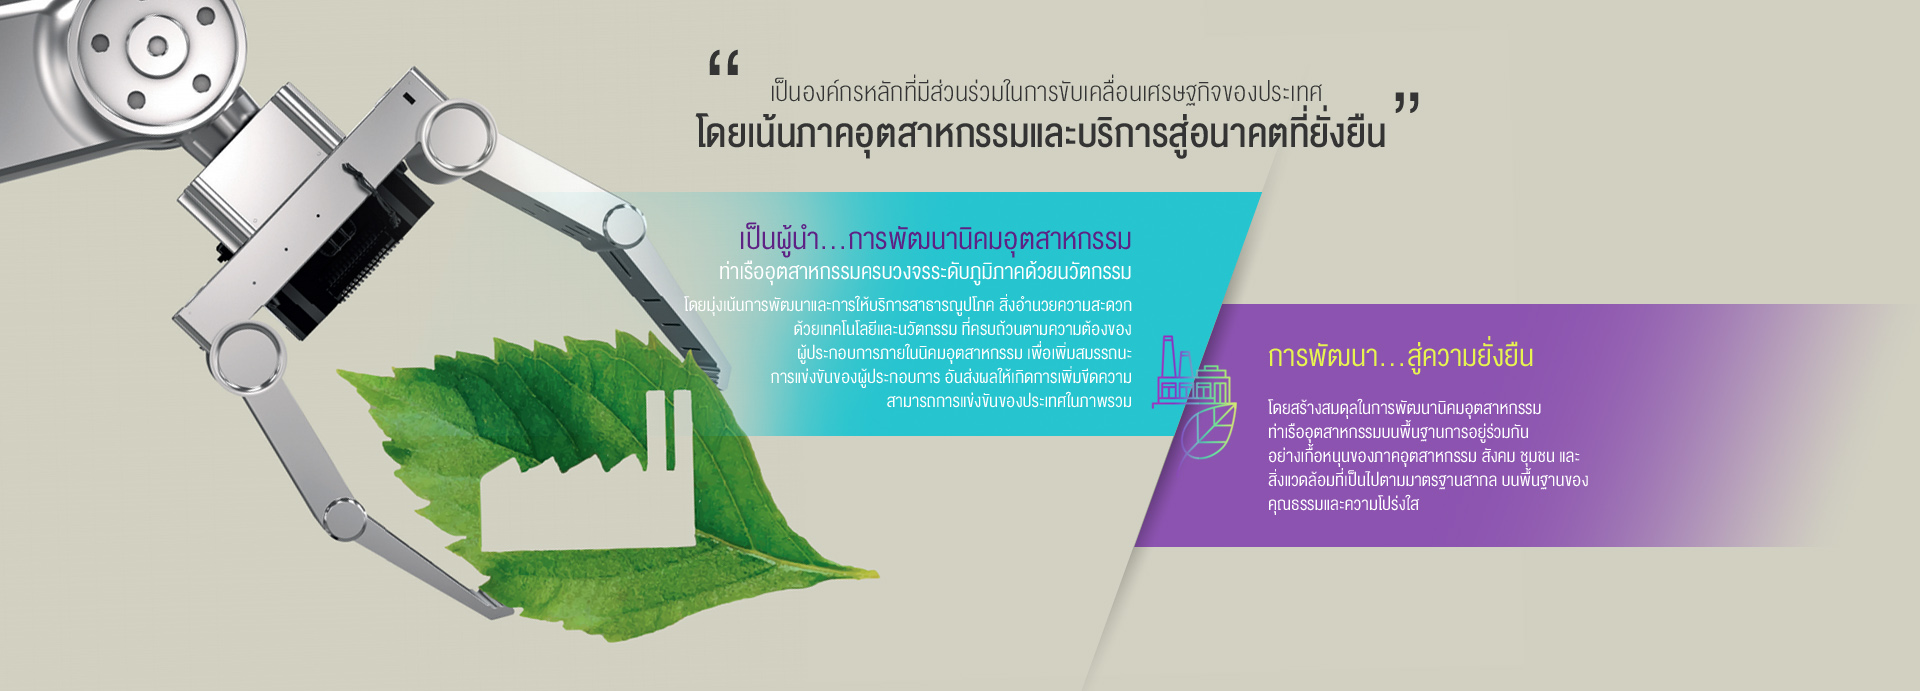
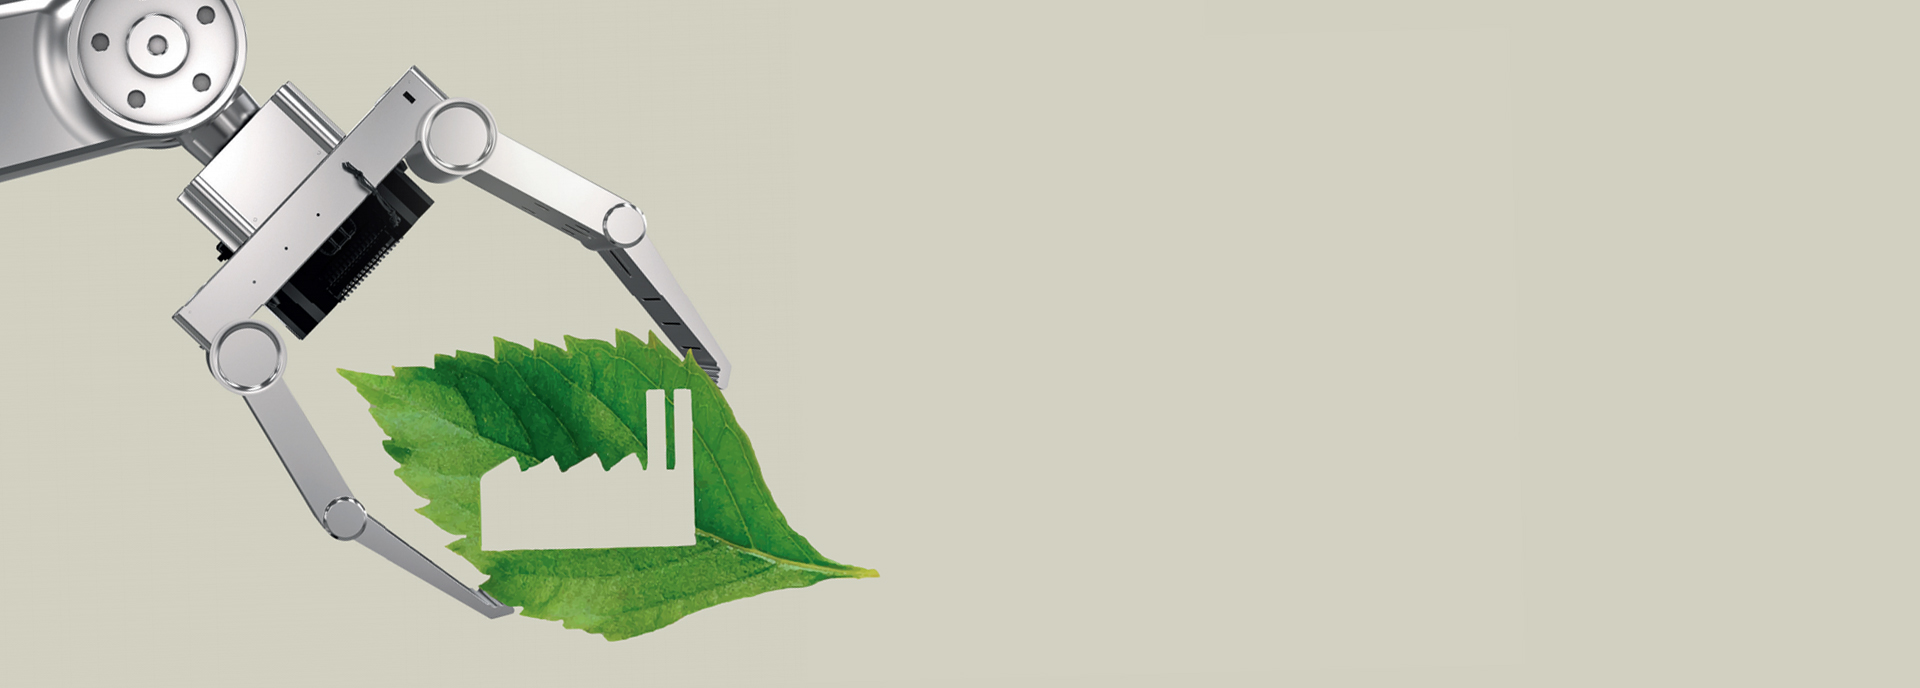
Update pages

diff --git a/public/assets/app/css/blocks.css b/public/assets/app/css/blocks.css
@@ -4,12 +4,12 @@
 .about-01 .slide > img{display:block; width:100%; height:auto;}
 .about-01 .tab-icons{width:100%; display:flex; flex-wrap:wrap;}
 .about-01 .tab-icon{
-    display:block; width:5.5rem; text-align:center; font-size:1.25rem; margin:.5rem 0 0 0;
-    white-space:nowrap;
+    display:block; width:calc(100% / 6); max-width:5rem; text-align:center;
+    font-size:1.25rem; margin:.5rem 0 0 0; line-height:.9;
 }
 .about-01 .tab-icon.active{font-weight:600;}
 .about-01 .tab-icon .icon{
-    position:relative; display:block; width:4.75rem; margin:0 auto .3125rem auto;
+    position:relative; display:block; width:86%; max-width:4.375rem; margin:0 auto .375rem auto;
 }
 .about-01 .tab-icon .icon > img{display:block; width:100%; height:auto;}
 .about-01 .tab-icon .icon > img.icon-active{
@@ -22,6 +22,7 @@
     position:relative; width:100%; height:calc(100vh - 5rem); background-size:cover;
     background-position:center; background-repeat:no-repeat; padding:3rem 1rem;
 }
+
 .about-01 .slide-phil-1 .text-wrapper{
     display:flex; align-items:center; justify-content:space-between;
     width:100%; max-width:48rem; margin:1.75rem auto 0 auto;
@@ -37,6 +38,33 @@
 }
 .about-01 .slide-phil-1 .text-set:nth-child(2) .desc{margin:0 0 0 .75rem;}
 .about-01 .slide-phil-1 .text-set:nth-child(3) .desc{margin:0 0 0 -.75rem;}
+
+.about-01 .slide-phil-2{padding:3.5rem 1rem 1rem 1rem;}
+.about-01 .slide-phil-2 .quote-container{
+    width:100%; margin:0 auto; max-width:50rem; padding:0 0 0 10rem;
+}
+.about-01 .slide-phil-2 .text-container{
+    position:relative; width:100%; max-width:74rem; display:flex; justify-content:center;
+    align-items:flex-start; flex-wrap:wrap; margin:2.25rem 0 0 auto;
+}
+.about-01 .slide-phil-2 .text-wrapper{
+    width:50%; min-height:11.6875rem; background-size:cover; background-position:right center;
+    background-repeat:no-repeat; color:#fff; padding:1rem 6.5rem 1rem 6rem; text-align:right;
+    display:flex; align-items:center; flex-wrap:wrap;
+}
+.about-01 .slide-phil-2 .text-wrapper-left{transform:translateX(6.1875rem);}
+.about-01 .slide-phil-2 .text-wrapper-right{
+    background-position:left center; text-align:left; padding:1rem 12rem 1rem 6.5rem;
+    margin:5.375rem 0 0 0;
+}
+.about-01 .slide-phil-2 .text-wrapper > *{width:100%;}
+.about-01 .slide-phil-2 .title{font-size:1.625rem; font-weight:300; color:#5e2185;}
+.about-01 .slide-phil-2 .text-wrapper p{font-size:1.25rem; font-weight:200; margin:.5rem 0 0 0;}
+.about-01 .slide-phil-2 .text-wrapper-right .title{color:#e7f44f;}
+.about-01 .slide-phil-2 .cut{
+    display:block; width:auto; height:calc(100% + 12rem);
+    position:absolute; top:-3rem; left:calc(50% - 3.25rem);
+}
 
 .about-01 .slide-phil-3 .text-container{
     position:absolute; bottom:0; left:0; right:0; background:rgba(255,255,255,.6); padding:0 1rem;
@@ -100,6 +128,9 @@
     .about-01 .tab-icons{margin:1.75rem 0 0 0;}
     .about-01 .slide-phil{height:calc(100vh - 8rem);}
     
+    .about-01 .slide-phil-2 .text-wrapper{padding:1rem 6.5rem 1rem 3rem;}
+    .about-01 .slide-phil-2 .text-wrapper-right{padding:1rem 3rem 1rem 6.5rem;}
+    
     .about-01 .slide-phil-3 .title{font-size:7.5rem;}
     .about-01 .slide-phil-3 .desc{font-size:1.5rem;}
     
@@ -122,6 +153,15 @@
     .about-01 .slide-phil-1 .title{font-size:11rem;}
     .about-01 .slide-phil-1 .desc{font-size:2.5rem;}
     
+    .about-01 .slide-phil-2{padding:2.5rem 1rem 1rem 1rem;}
+    .about-01 .slide-phil-2 .quote-container{max-width:40rem; padding:0;}
+    .about-01 .slide-phil-2 .text-container{margin:1.75rem auto 0 auto;}
+    .about-01 .slide-phil-2 .text-wrapper{width:100%; padding:1rem 10rem 1rem 14rem;}
+    .about-01 .slide-phil-2 .text-wrapper-left{transform:translateX(0);}
+    .about-01 .slide-phil-2 .text-wrapper-right{padding:1rem 14rem 1rem 10rem; margin:0;}
+    .about-01 .slide-phil-2 .title{font-size:1.5625rem;}
+    .about-01 .slide-phil-2 .cut{display:none;}
+    
     .about-01 .slide-phil-3 .text-set{width:calc((100% - 2rem) / 3);}
     .about-01 .slide-phil-3 .title{font-size:5rem;}
     .about-01 .slide-phil-3 .desc{font-size:1.375rem;}
@@ -143,6 +183,7 @@
     .about-01 .slide-phil-6 .title{font-size:5.5rem;}
 }
 @media screen and (max-width:767.98px){
+    .about-01 .tab-icon{max-width:4.875rem;}
     .about-01 .slide-phil{height:32rem;}
     
     .about-01 .slide-phil-1 .text-wrapper{max-width:30rem;}
@@ -150,6 +191,11 @@
     .about-01 .slide-phil-1 .desc{font-size:2rem;}
     .about-01 .slide-phil-1 .text-set:nth-child(2) .desc{margin:0 0 0 .5rem;}
     .about-01 .slide-phil-1 .text-set:nth-child(3) .desc{margin:0 0 0 -.5rem;}
+    
+    .about-01 .slide-phil-2{padding:2rem 1rem 1rem 1rem;}
+    .about-01 .slide-phil-2 .text-container{margin:1.5rem auto 0 auto;}
+    .about-01 .slide-phil-2 .text-wrapper{padding:1rem 6.75rem 1rem 6rem;}
+    .about-01 .slide-phil-2 .text-wrapper-right{padding:1rem 6rem 1rem 6.75rem;}
     
     .about-01 .slide-phil-4{display:block; height:auto!important; padding:1.5rem 1rem;}
     .about-01 .slide-phil-4 .icon-container{
@@ -172,6 +218,8 @@
     .about-01 .slide-phil-6 br{display:none;}
 }
 @media screen and (max-width:575.98px){
+    .about-01 .tab-icons{justify-content:center;}
+    .about-01 .tab-icon{width:calc(100% / 3);}
     .about-01 .slide-phil{height:28rem;}
     
     .about-01 .slide-phil-1 .text-wrapper{max-width:25rem; margin:1.5rem auto 0 auto;}
@@ -180,6 +228,13 @@
     .about-01 .slide-phil-1 .desc{margin:0;}
     .about-01 .slide-phil-1 .text-set:nth-child(2) .desc{margin:0 0 0 .25rem;}
     .about-01 .slide-phil-1 .text-set:nth-child(3) .desc{margin:0 0 0 -.25rem;}
+    
+    .about-01 .slide-phil-2{height:auto;}
+    .about-01 .slide-phil-2 .text-container{margin:1rem auto 0 auto;}
+    .about-01 .slide-phil-2 .text-wrapper{
+        padding:.75rem 1rem; min-height:0; text-align:left; background:#26c5cf!important;
+    }
+    .about-01 .slide-phil-2 .text-wrapper-right{padding:.75rem 1rem; background:#8c53b0!important;}
     
     .about-01 .slide-phil-3 .title{font-size:4.5rem;}
     .about-01 .slide-phil-3 .desc{font-size:1.25rem;}
@@ -798,16 +853,32 @@
 
 /* Hero Container 01 */
 .hero-container-01{
-    display:block; width:100%; max-width:20rem; margin:0 auto;
-    -webkit-mask-image:linear-gradient(to bottom, #000, #000, #000, #000,
-        #000, #000, #000, #000, #000, rgba(0,0,0,.5), rgba(0,0,0,0));
+    position:relative; display:block; width:100%; padding:3rem 0 0 0; transform:translateY(-2rem);
 }
-.hero-container-01 > .wrapper{position:relative; display:block; width:100%; padding:100% 0 0 0;}
+.hero-container-01 > .pattern{
+    position:absolute; top:0; bottom:4rem; left:calc(50% - 10rem); right:0;
+    width:26.875rem; height:19rem;
+    background-size:cover; background-position:center; background-repeat:no-repeat;
+    clip-path:polygon(100% 0, 100% 52%, 44% 100%, 0 100%, 0 0);
+    -webkit-clip-path:polygon(100% 0, 100% 52%, 44% 100%, 0 100%, 0 0);
+}
+.hero-container-01 > .hero-wrapper{position:relative; width:100%; max-width:20rem; margin:0 auto;}
+.hero-container-01 .cut{
+    position:absolute; bottom:-1rem; left:3.5rem; display:block; width:18rem; height:auto;
+}
+.hero-container-01 .wrapper{
+    position:relative; display:block; width:100%; padding:100% 0 0 0; overflow:hidden;
+    clip-path:polygon(100% 0, 100% 55%, 25% 100%, 0 100%, 0 0);
+    -webkit-clip-path:polygon(100% 0, 100% 55%, 25% 100%, 0 100%, 0 0);
+}
 .hero-container-01 .img-wrapper{
     position:absolute; top:0; bottom:0; left:0; right:0; display:flex; align-items:flex-end;
     justify-content:center;
 }
 .hero-container-01 img.hero{display:block; width:auto; max-width:100%; height:auto; max-height:100%;}
+@media screen and (max-width:991.98px){
+    .hero-container-01{margin-bottom:3rem; transform:translateY(0);}
+}
 
 
 /* Section Calendar */

diff --git a/public/assets/app/css/color-0.css b/public/assets/app/css/color-0.css
@@ -369,6 +369,7 @@ table.table-faq tr:nth-child(2n) > td{background:#fff;}
 .breadcrumb-01.color-white a.icon{background:#75ced2; color:#000;}
 .breadcrumb-01.color-white a.text{color:#fff;}
 .breadcrumb-01.color-white a.text:hover{color:#169f96;}
+.breadcrumb-01 a:last-child{color:#5d4189;}
 
 
 /* Call to Action 01 */

diff --git a/03_Philosophy.php b/03_Philosophy.php
@@ -76,7 +76,48 @@
                 </div>
 
                 <div class="slide">
-                    <img class="img" src="public/assets/app/images/bg/philosophy-2.jpg" alt="Image Banner" />
+                    <div class="slide-phil slide-phil-2" style="background-image:url('public/assets/app/images/bg/philosophy-2.jpg');">
+                        <div class="quote-container">
+                            <div class="content-quote-02">
+                                <h5 class="h6">
+                                    เป็นองค์กรหลักที่มีส่วนร่วมในการขับเคลื่อนเศรษฐกิจของประเทศ
+                                </h5>
+                                <h6 class="h3 xs fw-400">
+                                    โดยเน้นภาคอุตสาหกรรมและบริการสู่อนาคตที่ยั่งยืน
+                                </h6>
+                            </div>
+                        </div>
+                        <div class="text-container">
+                            <div class="text-wrapper text-wrapper-left" style="background-image:url('public/assets/app/images/bg/philosophy-2-bg-left.png');">
+                                <div class="text-set">
+                                    <div class="title">เป็นผู้นำ...การพัฒนานิคมอุตสาหกรรม</div>
+                                    <p>
+                                        ท่าเรืออุตสาหกรรมครบวงจรระดับภูมิภาคด้วยนวัตกรรม
+                                    </p>
+                                    <p>
+                                        โดยมุ่งเน้นการพัฒนาและการให้บริการสาธารณูปโภค สิ่งอำนวยความสะดวก
+                                        ด้วยเทคโนโลยีและนวัตกรรม ที่ครบถ้วนตามความต้องของ
+                                        ผู้ประกอบการภายในนิคมอุตสาหกรรม เพื่อเพิ่มสมรรถนะ
+                                        การแข่งขันของผู้ประกอบการ อันส่งผลให้เกิดการเพิ่มขีดความ
+                                        สามารถการแข่งขันของประเทศในภาพรวม
+                                    </p>
+                                </div>
+                            </div>
+                            <div class="text-wrapper text-wrapper-right" style="background-image:url('public/assets/app/images/bg/philosophy-2-bg-right.png');">
+                                <div class="text-set">
+                                    <div class="title">การพัฒนา...สู่ความยั่งยืน</div>
+                                    <p>
+                                        โดยสร้างสมดุลในการพัฒนานิคมอุตสาหกรรม
+                                        ท่าเรืออุตสาหกรรมบนพื้นฐานการอยู่ร่วมกัน
+                                        อย่างเกื้อหนุนของภาคอุตสาหกรรม สังคม ชุมชน และ
+                                        สิ่งแวดล้อมที่เป็นไปตามมาตรฐานสากล บนพื้นฐานของ
+                                        คุณธรรมและความโปร่งใส
+                                    </p>
+                                </div>
+                            </div>
+                            <img class="cut" src="public/assets/app/images/bg/philosophy-2-cut.png" alt="Cut Image Icon" />
+                        </div>
+                    </div>
                 </div>
                 
                 <div class="slide">

diff --git a/00_BoardDirector_Detail.php b/00_BoardDirector_Detail.php
@@ -113,10 +113,14 @@
 
                 <div class="grid xl-50 lg-40 sm-100" data-aos="fade-up" data-aos-delay="150">
                     <div class="hero-container-01">
-                        <div class="wrapper">
-                            <div class="img-wrapper">
-                                <img class="hero" src="public/assets/app/images/hero/profile.png" alt="Hero" />
+                        <div class="pattern" style="background-image:url('public/assets/app/images/hero/pattern-2.png');"></div>
+                        <div class="hero-wrapper">
+                            <div class="wrapper">
+                                <div class="img-wrapper">
+                                    <img class="hero" src="public/assets/app/images/hero/profile-2.png" alt="Hero Image" />
+                                </div>
                             </div>
+                            <img class="cut" src="public/assets/app/images/hero/cut-2.png" alt="Hero Cut Image" />
                         </div>
                     </div>
                     <div class="mt-4">
